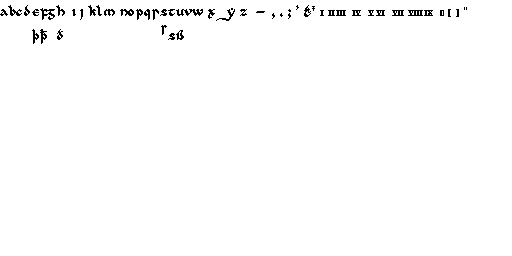
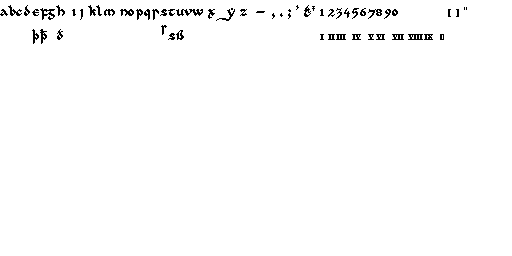
update font numbers

Changed region(s): [[0.625, 0.125, 0.875, 0.1562], [0.625, 0.0312, 0.875, 0.0625]]

diff --git a/scripts/build_font.py b/scripts/build_font.py
@@ -22,7 +22,7 @@ def read_block(image, row, col):
 
 _, filename, out_dir = sys.argv
 
-var_font_map = "abcdefghhijklmmnopqrstuvwwxyyyz --,.;'&*1233445667788990[]\""
+var_font_map = "abcdefghhijklmmnopqrstuvwwxyyyz --,.;'&*1234567890______[]\""
 chars = {}
 char_widths = {}
 char_block_width = {}
